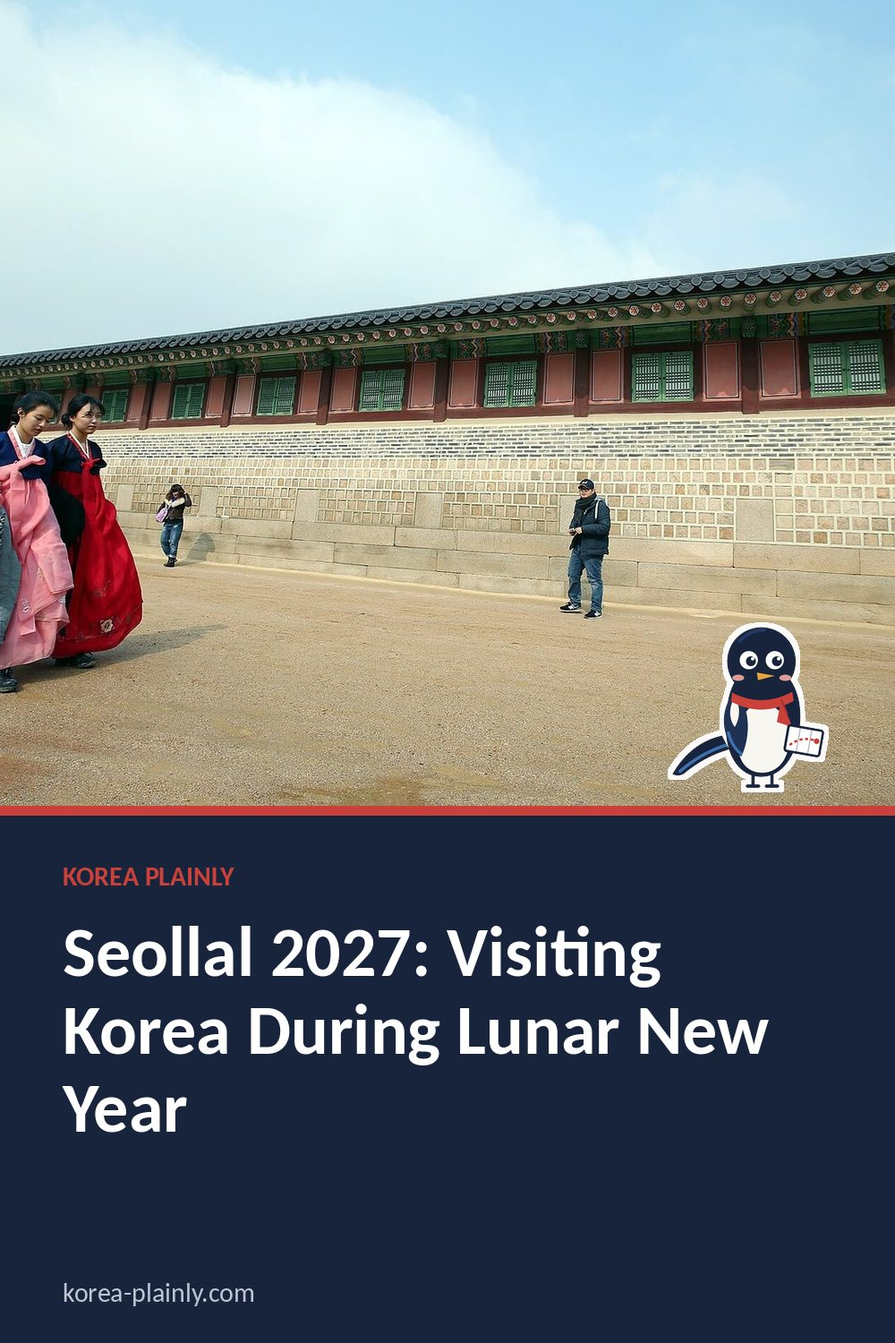
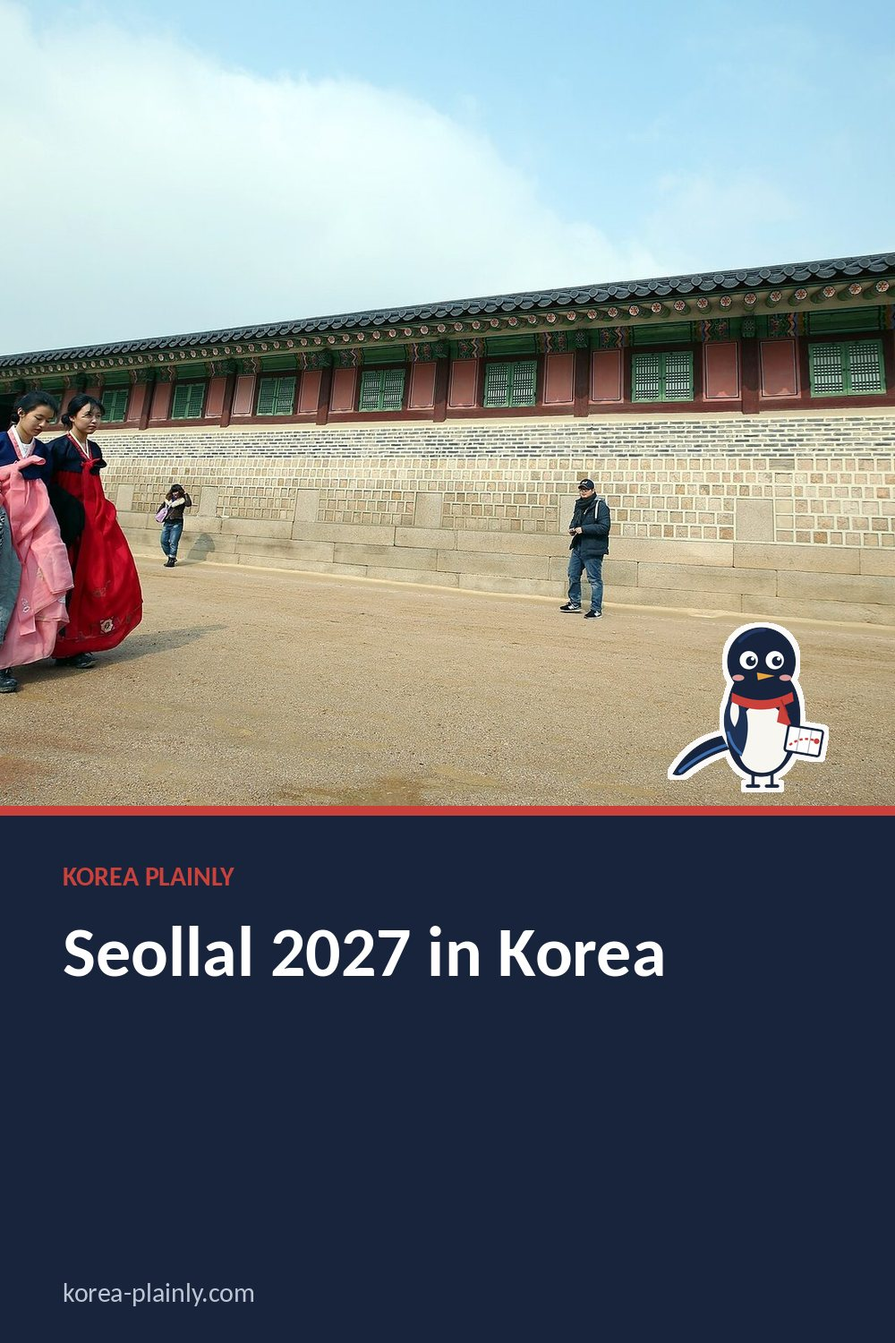
Seollal guide: retitle for 'lunar new year korea' and rewrite with 2027 holiday days, closures, ticket sales, free palace entry and Korean words
Claude-Session: https://claude.ai/code/session_01MMQnqG8exPHvx98JE7Y8p6

Changed region(s): [[0.062, 0.6747, 0.868, 0.8587]]

diff --git a/seollal-travel-tips.html b/seollal-travel-tips.html
@@ -11,11 +11,11 @@
 >
 
 <link rel="stylesheet" href="style.css?v=20261015-1">
-<title>Seollal 2027: Visiting Korea During Lunar New Year</title>
+<title>Seollal 2027 in Korea: Lunar New Year Dates, Closures and Travel Tips</title>
 
 <meta
   name="description"
-  content="Seollal falls on 7 February 2027, with a holiday from 6 to 9 February. What happens, what closes, how transport is affected and tips for visitors."
+  content="Seollal 2027 runs 6-9 February: what closes, how to get KTX and bus seats, free palace days, tteokguk and the New Year greeting."
 >
 <link
   rel="canonical"
@@ -29,12 +29,12 @@
 
 <meta
   property="og:title"
-  content="Seollal 2027: Visiting Korea During Lunar New Year"
+  content="Seollal 2027 in Korea: Lunar New Year Dates, Closures and Travel Tips"
 >
 
 <meta
   property="og:description"
-  content="Seollal falls on 7 February 2027, with a holiday from 6 to 9 February. What happens, what closes, how transport is affected and tips for visitors."
+  content="Seollal 2027 runs 6-9 February: what closes, how to get KTX and bus seats, free palace days, tteokguk and the New Year greeting."
 >
 
 <meta
@@ -59,12 +59,12 @@
 
 <meta
   name="twitter:title"
-  content="Seollal 2027: Visiting Korea During Lunar New Year"
+  content="Seollal 2027 in Korea: Lunar New Year Dates, Closures and Travel Tips"
 >
 
 <meta
   name="twitter:description"
-  content="Seollal falls on 7 February 2027, with a holiday from 6 to 9 February. What happens, what closes, how transport is affected and tips for visitors."
+  content="Seollal 2027 runs 6-9 February: what closes, how to get KTX and bus seats, free palace days, tteokguk and the New Year greeting."
 >
 
 <meta
@@ -247,9 +247,9 @@ footer {
 <link rel="stylesheet" href="article.css?v=6">
 <link rel="stylesheet" href="https://fonts.googleapis.com/css2?family=DM+Sans:wght@400;500;600;700&family=Playfair+Display:ital,wght@0,600;1,600&display=swap">
 <link rel="icon" href="/favicon.svg" type="image/svg+xml">
-<script type="application/ld+json" id="kp-faq-ld">{"@context": "https://schema.org", "@type": "FAQPage", "mainEntity": [{"@type": "Question", "name": "When is Seollal 2027?", "acceptedAnswer": {"@type": "Answer", "text": "Seollal is on 7 February 2027. The holiday runs from 6 to 9 February, including a substitute holiday."}}, {"@type": "Question", "name": "Is everything closed during Seollal?", "acceptedAnswer": {"@type": "Answer", "text": "No. Many small restaurants and shops close, and department stores often close on Seollal day, but convenience stores, many chains, cafes, hotels and most major sights stay open."}}, {"@type": "Question", "name": "Is it a good idea to visit Korea during Seollal?", "acceptedAnswer": {"@type": "Answer", "text": "It can be, if you stay mostly in one city. Seoul is quieter and sights hold traditional events, but intercity travel is very busy."}}]}</script>
-<script type="application/ld+json" id="kp-article-ld">{"@context": "https://schema.org", "@type": "Article", "headline": "Seollal 2027: Visiting Korea During Lunar New Year", "description": "Seollal falls on 7 February 2027, with a holiday from 6 to 9 February. What happens, what closes, how transport is affected and tips for visitors.", "image": ["https://korea-plainly.com/photo-seollal-travel-tips.jpg"], "datePublished": "2026-10-13", "dateModified": "2026-11-21", "author": {"@type": "Person", "name": "Jungsuk Kim", "url": "https://korea-plainly.com/about.html#author"}, "publisher": {"@type": "Organization", "name": "Korea Plainly", "url": "https://korea-plainly.com/"}, "mainEntityOfPage": "https://korea-plainly.com/seollal-travel-tips.html"}</script>
-<script type="application/ld+json" id="kp-breadcrumb-ld">{"@context": "https://schema.org", "@type": "BreadcrumbList", "itemListElement": [{"@type": "ListItem", "position": 1, "name": "Home", "item": "https://korea-plainly.com/"}, {"@type": "ListItem", "position": 2, "name": "Guides", "item": "https://korea-plainly.com/guides.html"}, {"@type": "ListItem", "position": 3, "name": "Travel Basics", "item": "https://korea-plainly.com/guides.html?category=travel"}, {"@type": "ListItem", "position": 4, "name": "Seollal 2027: Visiting Korea During Lunar New Year", "item": "https://korea-plainly.com/seollal-travel-tips.html"}]}</script>
+<script type="application/ld+json" id="kp-faq-ld">{"@context": "https://schema.org", "@type": "FAQPage", "mainEntity": [{"@type": "Question", "name": "When is Seollal 2027?", "acceptedAnswer": {"@type": "Answer", "text": "Seollal is on Sunday 7 February 2027. The public holiday runs from Saturday 6 to Tuesday 9 February, including a substitute holiday on the Tuesday."}}, {"@type": "Question", "name": "Is everything closed in Korea during Seollal?", "acceptedAnswer": {"@type": "Answer", "text": "No. Convenience stores, the subway, chain cafes, hotels, palaces and big attractions stay open. Small family restaurants, markets, banks and some department stores close for one or more days, mostly on the eve and on Seollal day."}}, {"@type": "Question", "name": "Can I travel between cities during Seollal?", "acceptedAnswer": {"@type": "Answer", "text": "Yes, but trains and buses sell out weeks ahead and roads are jammed. Travel against the flow, such as leaving Seoul on Seollal day, or stay in one city and move before or after the holiday."}}]}</script>
+<script type="application/ld+json" id="kp-article-ld">{"@context": "https://schema.org", "@type": "Article", "headline": "Seollal 2027 in Korea: Lunar New Year Dates, Closures and Travel Tips", "description": "Seollal 2027 runs 6-9 February: what closes, how to get KTX and bus seats, free palace days, tteokguk and the New Year greeting.", "image": ["https://korea-plainly.com/photo-seollal-travel-tips.jpg"], "datePublished": "2026-10-13", "dateModified": "2026-11-26", "author": {"@type": "Person", "name": "Jungsuk Kim", "url": "https://korea-plainly.com/about.html#author"}, "publisher": {"@type": "Organization", "name": "Korea Plainly", "url": "https://korea-plainly.com/"}, "mainEntityOfPage": "https://korea-plainly.com/seollal-travel-tips.html"}</script>
+<script type="application/ld+json" id="kp-breadcrumb-ld">{"@context": "https://schema.org", "@type": "BreadcrumbList", "itemListElement": [{"@type": "ListItem", "position": 1, "name": "Home", "item": "https://korea-plainly.com/"}, {"@type": "ListItem", "position": 2, "name": "Guides", "item": "https://korea-plainly.com/guides.html"}, {"@type": "ListItem", "position": 3, "name": "Travel Basics", "item": "https://korea-plainly.com/guides.html?category=travel"}, {"@type": "ListItem", "position": 4, "name": "Seollal 2027 in Korea: Lunar New Year Dates, Closures and Travel Tips", "item": "https://korea-plainly.com/seollal-travel-tips.html"}]}</script>
 <meta property="article:published_time" content="2026-10-13">
 </head>
 
@@ -280,12 +280,12 @@ TRAVEL BASICS · HOLIDAYS
 </div>
 
 <h1>
-Seollal 2027: Visiting Korea During Lunar New Year
+Seollal 2027 in Korea: Lunar New Year Dates, Closures and Travel Tips
 </h1>
-<p class="kp-date" data-kp="date">By <a href="about.html#author">Jungsuk Kim</a>, Korea Plainly · Published <time datetime="2026-10-13">13 October 2026</time> · Updated <time datetime="2026-11-21">21 November 2026</time></p>
+<p class="kp-date" data-kp="date">By <a href="about.html#author">Jungsuk Kim</a>, Korea Plainly · Published <time datetime="2026-10-13">13 October 2026</time> · Updated <time datetime="2026-11-26">26 November 2026</time></p>
 
 <p class="dek">
-Seollal falls on 7 February 2027, with a holiday from 6 to 9 February. What happens, what closes, how transport is affected and tips for visitors.
+Seollal 2027 runs 6-9 February: what closes, how to get KTX and bus seats, free palace days, tteokguk and the New Year greeting.
 </p>
 
 <img
@@ -297,9 +297,9 @@ Seollal falls on 7 February 2027, with a holiday from 6 to 9 February. What happ
 
 <article>
 
-<p>Seollal, the Lunar New Year, is Korea's most important traditional holiday. Families gather, travel home and celebrate together for several days, which changes how the whole country works for a while. If your trip overlaps with it, you will see a special side of Korea, but you need to plan a little. Here is what Seollal is, when it falls in 2027, and how it affects your trip.</p>
+<p>Seollal (설날), the Lunar New Year, is the one time of year when most of Korea goes home. Around a third of the country travels to family, Seoul's roads empty out, and many small restaurants pull down their shutters for a day or two. None of this ruins a trip, but it does change how you plan it. This guide covers the 2027 dates, what really closes, how to handle trains and buses, and what is worth doing while you are there.</p>
 
-<nav class="kp-toc" data-kp="toc" aria-label="On this page"><p>On this page</p><ol><li><a href="#when-is-seollal-in-2027">When is Seollal in 2027?</a></li><li><a href="#what-happens-at-seollal">What happens at Seollal</a></li><li><a href="#how-seollal-affects-your-trip">How Seollal affects your trip</a></li><li><a href="#the-upside-a-quieter-seoul">The upside: a quieter Seoul</a></li><li><a href="#tips-for-visiting-during-seollal">Tips for visiting during Seollal</a></li><li><a href="#faq">FAQ</a></li></ol></nav>
+<nav class="kp-toc" data-kp="toc" aria-label="On this page"><p>On this page</p><ol><li><a href="#when-is-seollal-in-2027">When is Seollal in 2027?</a></li><li><a href="#what-families-do-at-seollal">What families do at Seollal</a></li><li><a href="#what-closes-and-what-stays-open">What closes and what stays open</a></li><li><a href="#trains-buses-and-flights">Trains, buses and flights</a></li><li><a href="#what-to-do-in-seoul-over-seollal">What to do in Seoul over Seollal</a></li><li><a href="#practical-tips">Practical tips</a></li><li><a href="#faq">FAQ</a></li></ol></nav>
 <!-- kp-video -->
 <figure class="kp-video"><style>.kp-video{margin:1.5rem auto;max-width:300px;text-align:center}.kp-video .kp-video-box{position:relative;display:block;aspect-ratio:9/16;border-radius:14px;overflow:hidden;background:#111}.kp-video img,.kp-video iframe{position:absolute;inset:0;width:100%;height:100%;object-fit:cover;border:0;margin:0}.kp-video .kp-play{position:absolute;left:50%;top:30%;width:72px;height:72px;margin:-36px 0 0 -36px;border-radius:50%;background:rgba(201,65,58,.92);box-shadow:0 4px 18px rgba(0,0,0,.35)}.kp-video .kp-play:after{content:'';position:absolute;left:29px;top:22px;border-style:solid;border-width:14px 0 14px 22px;border-color:transparent transparent transparent #fff}.kp-video p{font-size:.9rem;margin:.5rem 0 0;color:#5b6472}.kp-video.kp-long{max-width:820px}.kp-video.kp-long .kp-video-box{aspect-ratio:16/9}.kp-video.kp-long .kp-play{top:50%}.kp-video .kp-sub{margin-top:10px}.kp-sub{display:inline-flex;align-items:center;gap:8px;background:#c9413a;color:#fff!important;font-weight:700;font-size:14px;line-height:1;padding:10px 16px;border-radius:999px;text-decoration:none!important;white-space:nowrap}.kp-sub:before{content:'';border-style:solid;border-width:6px 0 6px 10px;border-color:transparent transparent transparent #fff}.kp-sub:hover{background:#a8332d}</style>
 <a class="kp-video-box" href="https://www.youtube.com/shorts/CloTE770bpE" data-yt="CloTE770bpE" aria-label="Play video: Seollal 2027 in Korea: How to Plan Your Trip" target="_blank" rel="noopener"><img src="img/video-seollal-travel-tips.jpg" alt="Seollal 2027 in Korea: How to Plan Your Trip" width="540" height="960" loading="lazy"><span class="kp-play"></span></a>
@@ -309,46 +309,76 @@ Seollal falls on 7 February 2027, with a holiday from 6 to 9 February. What happ
 </figure>
 <!-- /kp-video -->
 <h2 id="when-is-seollal-in-2027">When is Seollal in 2027?</h2>
-<p>Seollal falls on <strong>Sunday 7 February 2027</strong>. The official holiday covers the day before, the day itself and the day after, and because one of those days falls on a Sunday, a substitute holiday is added. The holiday runs from <strong>Saturday 6 to Tuesday 9 February 2027</strong>.</p>
-<p>Seollal follows the lunar calendar, so its date changes every year, usually between late January and mid-February.</p>
-
-<h2 id="what-happens-at-seollal">What happens at Seollal</h2>
+<p>Seollal falls on <strong>Sunday 7 February 2027</strong>. The legal holiday is three days (the day before, the day itself and the day after), and because Sunday is one of them, a substitute holiday is added on the Tuesday. That gives:</p>
 <ul>
-<li><strong>Going home:</strong> millions of people travel to their hometowns, so trains, buses and roads are packed before and after the holiday.</li>
-<li><strong>Family rituals:</strong> families hold memorial rites for their ancestors and younger people bow to their elders (<em>sebae</em>), receiving gifts of money in return.</li>
-<li><strong>Tteokguk:</strong> a soup of sliced rice cakes, eaten on New Year's morning. Traditionally, eating it makes you a year older.</li>
-<li><strong>Traditional games and hanbok:</strong> some people wear hanbok and play folk games such as <em>yutnori</em>.</li>
+<li><strong>Saturday 6 February:</strong> the eve. The heaviest day for leaving Seoul.</li>
+<li><strong>Sunday 7 February:</strong> Seollal day. The quietest day, with the most closures.</li>
+<li><strong>Monday 8 February:</strong> the day after. Families visit relatives; traffic starts back towards Seoul.</li>
+<li><strong>Tuesday 9 February:</strong> substitute holiday (대체공휴일). The heaviest day for returning to Seoul.</li>
+</ul>
+<p>Because it follows the lunar calendar, the date moves every year, between late January and mid-February. Koreans call the journey out of the capital <em>gwiseong</em> (귀성) and the journey back <em>gwigyeong</em> (귀경); you will hear both on the news and see them on motorway signs.</p>
+
+<h2 id="what-families-do-at-seollal">What families do at Seollal</h2>
+<ul>
+<li><strong>Charye (차례):</strong> a morning memorial table for ancestors, laid with fruit, rice cakes and fried <em>jeon</em>. Many families now keep it small or skip it.</li>
+<li><strong>Sebae (세배):</strong> children and younger adults make a deep bow to their elders and say the New Year greeting. In return they get <em>sebaetdon</em> (세뱃돈), crisp new banknotes in an envelope.</li>
+<li><strong>Tteokguk (떡국):</strong> a clear beef or anchovy broth with sliced rice cakes, eaten on New Year's morning. People joke that a bowl makes you a year older.</li>
+<li><strong>Yutnori (윷놀이):</strong> a board game played by throwing four wooden sticks.</li>
 </ul>
 
-<h2 id="how-seollal-affects-your-trip">How Seollal affects your trip</h2>
-<h3>Transport</h3>
-<p>Intercity trains and express buses sell out well in advance for the days around Seollal. If you need to travel between cities, book as early as you can, or avoid travelling on the first and last days of the holiday. Incheon Airport is also very busy.</p>
-<h3>Shops and restaurants</h3>
-<p>Many small, family-run restaurants and shops close for some or all of the holiday, especially on Seollal day itself. Traditional markets are busy before the holiday and quiet during it. Big department stores often close on Seollal day, while convenience stores, chain restaurants, cafes and hotel restaurants usually stay open. Check opening hours on Naver Map.</p>
-<h3>Sights</h3>
-<p>Palaces, major museums and folk villages usually stay open during the holiday and often hold traditional events, such as folk games, performances and hanbok activities. Some close on Seollal day itself or on their regular closing day, so check before you go.</p>
-
-<h2 id="the-upside-a-quieter-seoul">The upside: a quieter Seoul</h2>
-<p>With so many people out of town, Seoul can feel calm during Seollal, with empty roads and quieter subways. It is a good time to visit the palaces, the National Folk Museum or Namsangol Hanok Village, which often run special New Year programmes, and to eat tteokguk at a restaurant that stays open. For the weather and everything else on that month, see our <a href="korea-in-february.html">Korea in February guide</a>.</p>
-
-<h2 id="tips-for-visiting-during-seollal">Tips for visiting during Seollal</h2>
+<h2 id="what-closes-and-what-stays-open">What closes and what stays open</h2>
+<h3>Usually open</h3>
 <ul>
-<li>Book intercity trains and buses as early as possible, or stay in one city for the holiday.</li>
-<li>Book accommodation early if you plan to visit popular places during the long weekend.</li>
-<li>Keep some cash for small purchases and check which restaurants are open near your hotel.</li>
-<li>Say "<em>Saehae bok mani badeuseyo</em>" (새해 복 많이 받으세요), "Happy New Year", and you will make people smile.</li>
-<li>Dress warmly: Seollal falls in winter. See our <a href="korea-winter-travel-guide.html">winter travel guide</a>.</li>
+<li>Convenience stores (CU, GS25, 7-Eleven, Emart24), the Seoul subway and city buses, which run on a normal holiday timetable.</li>
+<li>Chain cafes such as Starbucks and Ediya, fast-food chains, hotel restaurants and most places in Myeongdong, Hongdae and Insadong that live on tourists.</li>
+<li>Royal palaces and big attractions such as Lotte World and N Seoul Tower. In recent years the four main Seoul palaces, Jongmyo Shrine and the royal tombs have been free to enter over the Seollal holiday.</li>
 </ul>
-<p>Planning around other holidays? Chuseok, the autumn harvest holiday, has a similar effect on travel.</p>
+<h3>Often closed</h3>
+<ul>
+<li>Small family-run restaurants, especially on 6 and 7 February. A favourite <em>kalguksu</em> or <em>gukbap</em> place may be shut for three or four days.</li>
+<li>Traditional markets such as Gwangjang and Mangwon: busy before the holiday, half-empty on Seollal day.</li>
+<li>Department stores (Lotte, Shinsegae, Hyundai) and big supermarkets (Emart, Homeplus) usually close for one day around Seollal; the day differs by branch.</li>
+<li>National museums, such as the National Museum of Korea in Yongsan, typically close on Seollal day itself and reopen the next day.</li>
+<li>Banks and post offices close for the whole holiday. ATMs in convenience stores still work.</li>
+</ul>
+<p>Search a restaurant on Naver Map or KakaoMap before you walk there; many owners post a holiday notice (설 연휴 휴무) on their listing.</p>
+
+<h2 id="trains-buses-and-flights">Trains, buses and flights</h2>
+<p>This is the part that needs real planning. KTX and SRT trains for the days around Seollal sell out within hours of release. Korail opens holiday tickets in a special sale roughly three to four weeks ahead (for Seollal 2026 the sale began in mid-January), and seats on the main lines are gone the same day. Any returns appear on the Korail Talk app and the English Korail website in the days that follow, so keep checking.</p>
+<ul>
+<li><strong>Travel on the holiday itself, against the flow.</strong> Leaving Seoul on 7 or 8 February, or returning on 6 February, is much easier than going the same way as everyone else.</li>
+<li><strong>Express buses</strong> (book on the T-money GO or Bustago apps) also sell out, and a three-hour trip to Jeonju can take six in holiday traffic, even with bus lanes.</li>
+<li><strong>Domestic flights</strong> to Jeju and Busan fill up and get expensive; book early or pick other dates.</li>
+<li><strong>Motorway tolls</strong> have been waived over Seollal in recent years, which helps if you rent a car, but the traffic is the real cost.</li>
+</ul>
+<p>The simplest plan is to be in one city for the whole holiday and move before or after it. Our <a href="ktx-train-guide.html">KTX train guide</a> and <a href="korea-intercity-bus-guide.html">intercity bus guide</a> explain how to book.</p>
+
+<h2 id="what-to-do-in-seoul-over-seollal">What to do in Seoul over Seollal</h2>
+<p>Seoul is at its calmest. Taxis come quickly, the subway is half-empty and palace courtyards fill with families in hanbok rather than tour groups.</p>
+<ul>
+<li><strong>Gyeongbokgung and the National Folk Museum:</strong> folk games, <em>tuho</em> (arrow throwing) and New Year events in the courtyards. Gyeongbokgung normally closes on Tuesdays, and 9 February 2027 is a Tuesday, so check the palace website before you plan that day.</li>
+<li><strong>Namsangol Hanok Village</strong> (Chungmuro Station, line 3 or 4): kite making, yutnori and rice cake pounding are regular Seollal activities.</li>
+<li><strong>Eat tteokguk:</strong> many Korean restaurants that stay open add it to the menu, and hotel buffets serve it on New Year's morning.</li>
+</ul>
+<p>Early February is cold, often below zero at night. See <a href="korea-in-february.html">Korea in February</a> for the weather and <a href="korean-public-holidays.html">Korean public holidays</a> for the rest of the 2027 calendar.</p>
+
+<h2 id="practical-tips">Practical tips</h2>
+<ul>
+<li>Book your hotel early if you want to be in Busan, Gangneung or Jeju over the long weekend; Koreans travel too.</li>
+<li>If you are invited to a Korean home, a fruit box or a box of Korean pears (배) is a safe gift. Bow slightly to the elders and accept food with both hands.</li>
+<li>The greeting is <strong>"Saehae bok mani badeuseyo"</strong> (새해 복 많이 받으세요), "Receive lots of luck in the new year". Shop staff and taxi drivers will light up.</li>
+<li>Chuseok, the autumn harvest holiday, works the same way, so the same rules apply if your trip falls in September or October.</li>
+</ul>
+<p>Holiday opening days and ticket sale dates change every year, so check the official sites or Naver Map closer to the time.</p>
 
 <section class="faq">
 <h2 id="faq">FAQ</h2>
 <h3>When is Seollal 2027?</h3>
-<p>Seollal is on 7 February 2027. The holiday runs from 6 to 9 February, including a substitute holiday.</p>
-<h3>Is everything closed during Seollal?</h3>
-<p>No. Many small restaurants and shops close, and department stores often close on Seollal day, but convenience stores, many chains, cafes, hotels and most major sights stay open.</p>
-<h3>Is it a good idea to visit Korea during Seollal?</h3>
-<p>It can be, if you stay mostly in one city. Seoul is quieter and sights hold traditional events, but intercity travel is very busy.</p>
+<p>Seollal is on Sunday 7 February 2027. The public holiday runs from Saturday 6 to Tuesday 9 February, including a substitute holiday on the Tuesday.</p>
+<h3>Is everything closed in Korea during Seollal?</h3>
+<p>No. Convenience stores, the subway, chain cafes, hotels, palaces and big attractions stay open. Small family restaurants, markets, banks and some department stores close for one or more days, mostly on the eve and on Seollal day.</p>
+<h3>Can I travel between cities during Seollal?</h3>
+<p>Yes, but trains and buses sell out weeks ahead and roads are jammed. Travel against the flow, such as leaving Seoul on Seollal day, or stay in one city and move before or after the holiday.</p>
 </section>
 
 <a class="back" href="guides.html">← Back to all guides</a>

diff --git a/see-do.html b/see-do.html
@@ -22,7 +22,7 @@
 <a href="videos.html">Videos</a>
 <a href="about.html">About</a>
 <a href="search.html" class="nav-search" aria-label="Search">Search</a>
-</nav><button class="menu" aria-label="menu">☰</button></div></header><main><section class="hub-hero"><div class="wrap"><a class="hub-back" href="index.html">← Home</a><p class="kicker"><i></i> KOREA PLAINLY</p><h1>See &amp; Do in Korea</h1><p>Sights, culture, walks and things to do in Korea, explained for first-time visitors.</p><div class="hub-cats"><a href="see-do.html">See &amp; Do</a><a href="eat-drink.html">Eat &amp; Drink</a><a href="regions.html">Shop</a><a href="regions.html">Stay</a></div></div></section><section class="wrap section"><div class="hub-grid"><a class="hub-card" href="incheon-local-guide-incheon-chinatown.html"><img class="hub-thumb" src="regional-incheon-local-guide-incheon-chinatown.jpg" alt="" loading="lazy" srcset="img/regional-incheon-local-guide-incheon-chinatown.c8411375.w480.webp 480w, img/regional-incheon-local-guide-incheon-chinatown.c8411375.w800.webp 800w, img/regional-incheon-local-guide-incheon-chinatown.c8411375.w1200.webp 1200w, regional-incheon-local-guide-incheon-chinatown.jpg 1600w" sizes="(max-width: 600px) 100vw, (max-width: 1000px) 50vw, 400px" decoding="async"><span>LOCAL GUIDE</span><h3>Incheon Chinatown: A Food-and-History Guide to Korea’s Open-Port District</h3><b>Read guide &rarr;</b></a><a class="hub-card" href="korea-travel-advisory.html"><img class="hub-thumb" src="photo-korea-travel-advisory.jpg" alt="" loading="lazy" srcset="img/photo-korea-travel-advisory.e842fac1.w480.webp 480w, img/photo-korea-travel-advisory.e842fac1.w800.webp 800w, img/photo-korea-travel-advisory.e842fac1.w1200.webp 1200w, photo-korea-travel-advisory.jpg 1600w" sizes="(max-width: 600px) 100vw, (max-width: 1000px) 50vw, 400px" decoding="async"><span>TRAVEL</span><h3>Seoul Travel Advisory: Is South Korea Safe? Alerts, Drills and Protests Explained</h3><b>Read guide &rarr;</b></a><a class="hub-card" href="korea-travel-apps.html"><img class="hub-thumb" src="photo-korea-travel-apps.jpg" alt="" loading="lazy" srcset="img/photo-korea-travel-apps.5767e704.w480.webp 480w, img/photo-korea-travel-apps.5767e704.w800.webp 800w, img/photo-korea-travel-apps.5767e704.w1200.webp 1200w, photo-korea-travel-apps.jpg 1600w" sizes="(max-width: 600px) 100vw, (max-width: 1000px) 50vw, 400px" decoding="async"><span>TRAVEL</span><h3>South Korea Apps for Tourists: The Ones You Actually Need (2026)</h3><b>Read guide &rarr;</b></a><a class="hub-card" href="korea-travel-budget.html"><img class="hub-thumb" src="photo-korea-travel-budget.jpg" alt="" loading="lazy" srcset="img/photo-korea-travel-budget.71e874bd.w480.webp 480w, img/photo-korea-travel-budget.71e874bd.w800.webp 800w, img/photo-korea-travel-budget.71e874bd.w1200.webp 1200w, photo-korea-travel-budget.jpg 1600w" sizes="(max-width: 600px) 100vw, (max-width: 1000px) 50vw, 400px" decoding="async"><span>TRAVEL</span><h3>How Much Does a Trip to Korea Cost? A Daily Budget Guide</h3><b>Read guide &rarr;</b></a><a class="hub-card" href="korea-travel-mistakes.html"><img class="hub-thumb" src="photo-korea-travel-mistakes.jpg" alt="" loading="lazy" srcset="img/photo-korea-travel-mistakes.dbb3c91a.w480.webp 480w, img/photo-korea-travel-mistakes.dbb3c91a.w800.webp 800w, img/photo-korea-travel-mistakes.dbb3c91a.w1200.webp 1200w, photo-korea-travel-mistakes.jpg 1600w" sizes="(max-width: 600px) 100vw, (max-width: 1000px) 50vw, 400px" decoding="async"><span>TRAVEL</span><h3>South Korea Travel Tips: 16 First-Timer Mistakes to Avoid</h3><b>Read guide &rarr;</b></a><a class="hub-card" href="korea-winter-travel-guide.html"><img class="hub-thumb" src="photo-own-hanok-mountains.jpg" alt="" loading="lazy" srcset="img/photo-own-hanok-mountains.ddf0fb67.w480.webp 480w, img/photo-own-hanok-mountains.ddf0fb67.w800.webp 800w, img/photo-own-hanok-mountains.ddf0fb67.w1200.webp 1200w, photo-own-hanok-mountains.jpg 1600w" sizes="(max-width: 600px) 100vw, (max-width: 1000px) 50vw, 400px" decoding="async"><span>SEE &amp; DO</span><h3>Korea Winter Weather and Travel Guide: Seoul Temperatures, What to Pack and Do</h3><b>Read guide &rarr;</b></a><a class="hub-card" href="seollal-travel-tips.html"><img class="hub-thumb" src="photo-seollal-travel-tips.jpg" alt="" loading="lazy" srcset="img/photo-seollal-travel-tips.ea63fcba.w480.webp 480w, img/photo-seollal-travel-tips.ea63fcba.w800.webp 800w, img/photo-seollal-travel-tips.ea63fcba.w1200.webp 1200w, photo-seollal-travel-tips.jpg 1600w" sizes="(max-width: 600px) 100vw, (max-width: 1000px) 50vw, 400px" decoding="async"><span>TRAVEL</span><h3>Seollal 2027: Visiting Korea During Lunar New Year</h3><b>Read guide &rarr;</b></a><a class="hub-card" href="seoul-travel-pass.html"><img class="hub-thumb" src="photo-seoul-travel-pass.jpg" alt="" loading="lazy" srcset="img/photo-seoul-travel-pass.6e05e0f0.w480.webp 480w, img/photo-seoul-travel-pass.6e05e0f0.w800.webp 800w, img/photo-seoul-travel-pass.6e05e0f0.w1200.webp 1200w, photo-seoul-travel-pass.jpg 1600w" sizes="(max-width: 600px) 100vw, (max-width: 1000px) 50vw, 400px" decoding="async"><span>TRAVEL</span><h3>Discover Seoul Pass: Is the Seoul Travel Pass Worth It?</h3><b>Read guide &rarr;</b></a></div></section></main><footer><div class="wrap foot"><div><a class="brand" href="index.html"><span class="taegeuk"></span><span>Korea <b>Plainly</b></span></a><p>Korea, Made Easy for Everyone.</p></div><div class="foot-links"><a href="guides.html">Guides</a><a href="regions.html">Regions</a><a href="privacy.html">Privacy</a><a href="contact.html">Contact</a></div></div></footer><script>document.querySelector('.menu').addEventListener('click',()=>document.querySelector('nav').classList.toggle('show'));</script>
+</nav><button class="menu" aria-label="menu">☰</button></div></header><main><section class="hub-hero"><div class="wrap"><a class="hub-back" href="index.html">← Home</a><p class="kicker"><i></i> KOREA PLAINLY</p><h1>See &amp; Do in Korea</h1><p>Sights, culture, walks and things to do in Korea, explained for first-time visitors.</p><div class="hub-cats"><a href="see-do.html">See &amp; Do</a><a href="eat-drink.html">Eat &amp; Drink</a><a href="regions.html">Shop</a><a href="regions.html">Stay</a></div></div></section><section class="wrap section"><div class="hub-grid"><a class="hub-card" href="incheon-local-guide-incheon-chinatown.html"><img class="hub-thumb" src="regional-incheon-local-guide-incheon-chinatown.jpg" alt="" loading="lazy" srcset="img/regional-incheon-local-guide-incheon-chinatown.c8411375.w480.webp 480w, img/regional-incheon-local-guide-incheon-chinatown.c8411375.w800.webp 800w, img/regional-incheon-local-guide-incheon-chinatown.c8411375.w1200.webp 1200w, regional-incheon-local-guide-incheon-chinatown.jpg 1600w" sizes="(max-width: 600px) 100vw, (max-width: 1000px) 50vw, 400px" decoding="async"><span>LOCAL GUIDE</span><h3>Incheon Chinatown: A Food-and-History Guide to Korea’s Open-Port District</h3><b>Read guide &rarr;</b></a><a class="hub-card" href="korea-travel-advisory.html"><img class="hub-thumb" src="photo-korea-travel-advisory.jpg" alt="" loading="lazy" srcset="img/photo-korea-travel-advisory.e842fac1.w480.webp 480w, img/photo-korea-travel-advisory.e842fac1.w800.webp 800w, img/photo-korea-travel-advisory.e842fac1.w1200.webp 1200w, photo-korea-travel-advisory.jpg 1600w" sizes="(max-width: 600px) 100vw, (max-width: 1000px) 50vw, 400px" decoding="async"><span>TRAVEL</span><h3>Seoul Travel Advisory: Is South Korea Safe? Alerts, Drills and Protests Explained</h3><b>Read guide &rarr;</b></a><a class="hub-card" href="korea-travel-apps.html"><img class="hub-thumb" src="photo-korea-travel-apps.jpg" alt="" loading="lazy" srcset="img/photo-korea-travel-apps.5767e704.w480.webp 480w, img/photo-korea-travel-apps.5767e704.w800.webp 800w, img/photo-korea-travel-apps.5767e704.w1200.webp 1200w, photo-korea-travel-apps.jpg 1600w" sizes="(max-width: 600px) 100vw, (max-width: 1000px) 50vw, 400px" decoding="async"><span>TRAVEL</span><h3>South Korea Apps for Tourists: The Ones You Actually Need (2026)</h3><b>Read guide &rarr;</b></a><a class="hub-card" href="korea-travel-budget.html"><img class="hub-thumb" src="photo-korea-travel-budget.jpg" alt="" loading="lazy" srcset="img/photo-korea-travel-budget.71e874bd.w480.webp 480w, img/photo-korea-travel-budget.71e874bd.w800.webp 800w, img/photo-korea-travel-budget.71e874bd.w1200.webp 1200w, photo-korea-travel-budget.jpg 1600w" sizes="(max-width: 600px) 100vw, (max-width: 1000px) 50vw, 400px" decoding="async"><span>TRAVEL</span><h3>How Much Does a Trip to Korea Cost? A Daily Budget Guide</h3><b>Read guide &rarr;</b></a><a class="hub-card" href="korea-travel-mistakes.html"><img class="hub-thumb" src="photo-korea-travel-mistakes.jpg" alt="" loading="lazy" srcset="img/photo-korea-travel-mistakes.dbb3c91a.w480.webp 480w, img/photo-korea-travel-mistakes.dbb3c91a.w800.webp 800w, img/photo-korea-travel-mistakes.dbb3c91a.w1200.webp 1200w, photo-korea-travel-mistakes.jpg 1600w" sizes="(max-width: 600px) 100vw, (max-width: 1000px) 50vw, 400px" decoding="async"><span>TRAVEL</span><h3>South Korea Travel Tips: 16 First-Timer Mistakes to Avoid</h3><b>Read guide &rarr;</b></a><a class="hub-card" href="korea-winter-travel-guide.html"><img class="hub-thumb" src="photo-own-hanok-mountains.jpg" alt="" loading="lazy" srcset="img/photo-own-hanok-mountains.ddf0fb67.w480.webp 480w, img/photo-own-hanok-mountains.ddf0fb67.w800.webp 800w, img/photo-own-hanok-mountains.ddf0fb67.w1200.webp 1200w, photo-own-hanok-mountains.jpg 1600w" sizes="(max-width: 600px) 100vw, (max-width: 1000px) 50vw, 400px" decoding="async"><span>SEE &amp; DO</span><h3>Korea Winter Weather and Travel Guide: Seoul Temperatures, What to Pack and Do</h3><b>Read guide &rarr;</b></a><a class="hub-card" href="seollal-travel-tips.html"><img class="hub-thumb" src="photo-seollal-travel-tips.jpg" alt="" loading="lazy" srcset="img/photo-seollal-travel-tips.ea63fcba.w480.webp 480w, img/photo-seollal-travel-tips.ea63fcba.w800.webp 800w, img/photo-seollal-travel-tips.ea63fcba.w1200.webp 1200w, photo-seollal-travel-tips.jpg 1600w" sizes="(max-width: 600px) 100vw, (max-width: 1000px) 50vw, 400px" decoding="async"><span>TRAVEL</span><h3>Seollal 2027 in Korea: Lunar New Year Dates, Closures and Travel Tips</h3><b>Read guide &rarr;</b></a><a class="hub-card" href="seoul-travel-pass.html"><img class="hub-thumb" src="photo-seoul-travel-pass.jpg" alt="" loading="lazy" srcset="img/photo-seoul-travel-pass.6e05e0f0.w480.webp 480w, img/photo-seoul-travel-pass.6e05e0f0.w800.webp 800w, img/photo-seoul-travel-pass.6e05e0f0.w1200.webp 1200w, photo-seoul-travel-pass.jpg 1600w" sizes="(max-width: 600px) 100vw, (max-width: 1000px) 50vw, 400px" decoding="async"><span>TRAVEL</span><h3>Discover Seoul Pass: Is the Seoul Travel Pass Worth It?</h3><b>Read guide &rarr;</b></a></div></section></main><footer><div class="wrap foot"><div><a class="brand" href="index.html"><span class="taegeuk"></span><span>Korea <b>Plainly</b></span></a><p>Korea, Made Easy for Everyone.</p></div><div class="foot-links"><a href="guides.html">Guides</a><a href="regions.html">Regions</a><a href="privacy.html">Privacy</a><a href="contact.html">Contact</a></div></div></footer><script>document.querySelector('.menu').addEventListener('click',()=>document.querySelector('nav').classList.toggle('show'));</script>
 <script id="kp-nav-js">
 (function(){
   const drops=[...document.querySelectorAll('.nav-drop')];

diff --git a/incheon-airport-to-seoul.html b/incheon-airport-to-seoul.html
@@ -248,7 +248,7 @@ footer {
 <link rel="stylesheet" href="https://fonts.googleapis.com/css2?family=DM+Sans:wght@400;500;600;700&family=Playfair+Display:ital,wght@0,600;1,600&display=swap">
 <link rel="icon" href="/favicon.svg" type="image/svg+xml">
 <script type="application/ld+json" id="kp-faq-ld">{"@context": "https://schema.org", "@type": "FAQPage", "mainEntity": [{"@type": "Question", "name": "How long does it take from Incheon Airport to Seoul Station?", "acceptedAnswer": {"@type": "Answer", "text": "About 43 minutes by AREX Express Train from Terminal 1 and about 51 minutes from Terminal 2. The All-Stop Train takes about an hour from Terminal 1, a little more from Terminal 2."}}, {"@type": "Question", "name": "Can I use a T-money card on the AREX train?", "acceptedAnswer": {"@type": "Answer", "text": "Yes on the All-Stop Train, where you tap in at the normal gates. The Express Train needs its own ticket from the machines or counter, although you can pay for it with cash or a card."}}, {"@type": "Question", "name": "Is the Express Train worth the extra cost?", "acceptedAnswer": {"@type": "Answer", "text": "It is if you are staying near Seoul Station or want a guaranteed seat for your luggage. If your hotel is near Hongdae, Gongdeok or Gimpo Airport stations, the All-Stop Train is cheaper and gets you there without a transfer."}}]}</script>
-<script type="application/ld+json" id="kp-article-ld">{"@context": "https://schema.org", "@type": "Article", "headline": "Incheon Airport to Seoul Station by AREX Train, Bus or Taxi", "description": "Incheon Airport to Seoul Station and your hotel: AREX Express vs All-Stop train, airport buses and taxis, with 2026 fares and journey times.", "image": ["https://korea-plainly.com/photo-incheon-airport-to-seoul.jpg"], "datePublished": "2026-10-13", "dateModified": "2026-11-24", "author": {"@type": "Person", "name": "Jungsuk Kim", "url": "https://korea-plainly.com/about.html#author"}, "publisher": {"@type": "Organization", "name": "Korea Plainly", "url": "https://korea-plainly.com/"}, "mainEntityOfPage": "https://korea-plainly.com/incheon-airport-to-seoul.html"}</script>
+<script type="application/ld+json" id="kp-article-ld">{"@context": "https://schema.org", "@type": "Article", "headline": "Incheon Airport to Seoul Station by AREX Train, Bus or Taxi", "description": "Incheon Airport to Seoul Station and your hotel: AREX Express vs All-Stop train, airport buses and taxis, with 2026 fares and journey times.", "image": ["https://korea-plainly.com/photo-incheon-airport-to-seoul.jpg"], "datePublished": "2026-10-13", "dateModified": "2026-11-26", "author": {"@type": "Person", "name": "Jungsuk Kim", "url": "https://korea-plainly.com/about.html#author"}, "publisher": {"@type": "Organization", "name": "Korea Plainly", "url": "https://korea-plainly.com/"}, "mainEntityOfPage": "https://korea-plainly.com/incheon-airport-to-seoul.html"}</script>
 <script type="application/ld+json" id="kp-breadcrumb-ld">{"@context": "https://schema.org", "@type": "BreadcrumbList", "itemListElement": [{"@type": "ListItem", "position": 1, "name": "Home", "item": "https://korea-plainly.com/"}, {"@type": "ListItem", "position": 2, "name": "Guides", "item": "https://korea-plainly.com/guides.html"}, {"@type": "ListItem", "position": 3, "name": "Transport", "item": "https://korea-plainly.com/guides.html?category=transport"}, {"@type": "ListItem", "position": 4, "name": "Incheon Airport to Seoul Station by AREX Train, Bus or Taxi", "item": "https://korea-plainly.com/incheon-airport-to-seoul.html"}]}</script>
 <meta property="article:published_time" content="2026-10-13">
 </head>
@@ -282,7 +282,7 @@ TRANSPORT · KOREA GUIDE
 <h1>
 Incheon Airport to Seoul Station by AREX Train, Bus or Taxi
 </h1>
-<p class="kp-date" data-kp="date">By <a href="about.html#author">Jungsuk Kim</a>, Korea Plainly · Published <time datetime="2026-10-13">13 October 2026</time> · Updated <time datetime="2026-11-24">24 November 2026</time></p>
+<p class="kp-date" data-kp="date">By <a href="about.html#author">Jungsuk Kim</a>, Korea Plainly · Published <time datetime="2026-10-13">13 October 2026</time> · Updated <time datetime="2026-11-26">26 November 2026</time></p>
 
 <p class="dek">
 Incheon Airport to Seoul Station and your hotel: AREX Express vs All-Stop train, airport buses and taxis, with 2026 fares and journey times.

diff --git a/guides.html b/guides.html
@@ -691,11 +691,11 @@ TRAVEL BASICS · NEW
 </small>
 
 <h2>
-Seollal 2027: Visiting Korea During Lunar New Year
+Seollal 2027 in Korea: Lunar New Year Dates, Closures and Travel Tips
 </h2>
 
 <p>
-Seollal falls on 7 February 2027, with a holiday from 6 to 9 February. What happens, what closes, how transport is affected and tips for visitors.
+Seollal 2027 runs 6-9 February: what closes, how to get KTX and bus seats, free palace days, tteokguk and the New Year greeting.
 </p>
 
 <span class="guide-arrow">
